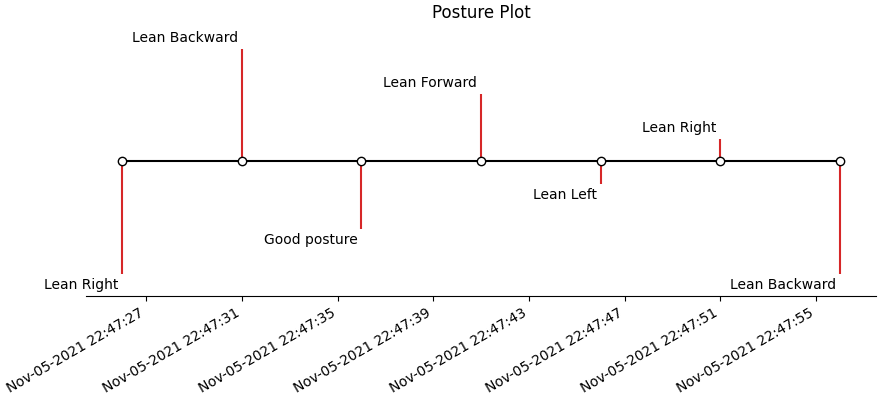
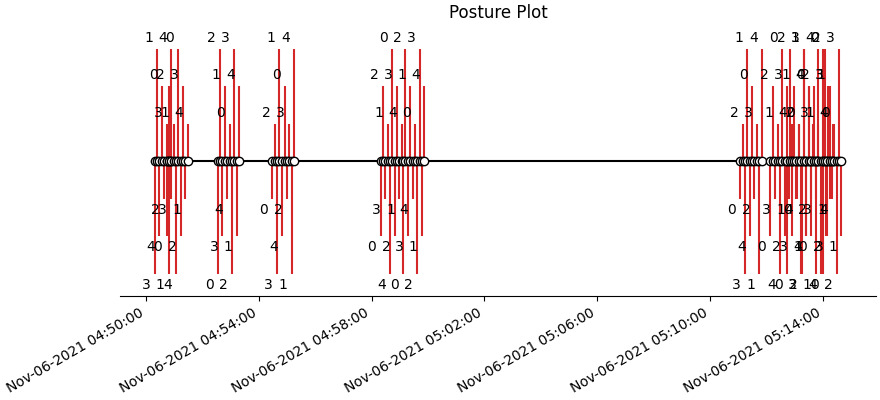
buzzer implemented

diff --git a/data_collection/src/app.py b/data_collection/src/app.py
@@ -42,7 +42,7 @@ from time import (
     sleep
 )
 
-TIME_BETWEEN_READINGS = 5 # seconds
+TIME_BETWEEN_READINGS = 0.5 # seconds
 PATH = "./samples"
 
 led_and_buzzer = None
@@ -288,7 +288,13 @@ async def run(address, postfix, flag, flags, mqtt_flag, warn_flag):
         # Once connected the client should not disconnect
         # If it does, exception is raised
         while True:
-            await asyncio.sleep(TIME_BETWEEN_READINGS) # Without await, the bleak listener cannot update the readings array, giving errors
+            for i in range(10):
+                if warn_flag.is_set():
+                    print("haha")
+                    await led_and_buzzer.notify(client, 0x05)
+                else:
+                    await led_and_buzzer.notify(client, 0x02)
+                await asyncio.sleep(TIME_BETWEEN_READINGS) # Without await, the bleak listener cannot update the readings array, giving errors
             try:
                 # Check if client is connected, if not raise Exception
                 if not client.is_connected:
@@ -343,12 +349,7 @@ async def run(address, postfix, flag, flags, mqtt_flag, warn_flag):
                 if not mqtt_flag.is_set():
                     mqtt_flag.set()
 
-                if warn_flag.is_set() and address == BLE_ADDR_SENSOR_BACK:
-                    print("haha")
-                    warn_flag.clear()
-                    await led_and_buzzer.notify(client, 0x05)
-                else:
-                    await led_and_buzzer.notify(client, 0x00)
+
 
             except Exception as e:
                 raise e

diff --git a/server_database/analytics/controller.py b/server_database/analytics/controller.py
@@ -10,7 +10,7 @@ from commons.commons import (
 def get_plot(posture, dates):
     posture
     # Choose some nice levels
-    levels = np.tile([-5, 5, -3, 3, -1, 1],
+    levels = np.tile([-3, 3, -2, 2, -1, 1],
                     int(np.ceil(len(posture)/6)))[:len(posture)]
 
     # Create figure and plot a stem plot with the date
@@ -29,7 +29,7 @@ def get_plot(posture, dates):
                     verticalalignment="bottom" if l > 0 else "top")
 
     # format xaxis with 4 month intervals
-    ax.xaxis.set_major_locator(mdates.SecondLocator(interval=4))
+    ax.xaxis.set_major_locator(mdates.MinuteLocator(interval=4))
     ax.xaxis.set_major_formatter(mdates.DateFormatter("%b-%d-%Y %H:%M:%S"))
     plt.setp(ax.get_xticklabels(), rotation=30, ha="right")
 
@@ -47,6 +47,6 @@ def get_advice(posture, dates):
     for classification in posture:
         count[classification] = 1 if classification not in count.keys() else count[classification] + 1
     
-    for classification in MQTT_CLASSIFICATIONS:
+    for classification in CLASSIFICATIONS:
         advice += "\n[%s] : You were in this posture %.3f percent of the time!\n" % (classification, (count[classification]/len(posture)))
     return advice

diff --git a/server_database/app.py b/server_database/app.py
@@ -78,7 +78,7 @@ def get_data():
 		
 		list_of_timestamps = [datetime.datetime.fromtimestamp(user.timecollect) for user in entries_to_analyse]
 		list_of_timestamps_str = [timestamp.strftime("%m/%d/%Y, %H:%M:%S") for timestamp in list_of_timestamps]
-		list_of_classifications = [CLASSIFICATION_ENUM_TO_NAME[user.classification] for user in entries_to_analyse]
+		list_of_classifications = [user.classification for user in entries_to_analyse]
 		print(list_of_timestamps_str)
 		print(list_of_classifications)
 

diff --git a/server_database/client.py b/server_database/client.py
@@ -38,8 +38,8 @@ def main():
 
     dict_to_enter = {
         "name" : "Sally",
-        "start_time" : 1636123646,
-        "end_time" : 1636123676
+        "start_time" : 1636145419,
+        "end_time" : 1636146879
     }
     requests.get(url_get_data, params=dict_to_enter)
     #Send the request and get back the response into result

diff --git a/data_collection/src/mqtt/controller.py b/data_collection/src/mqtt/controller.py
@@ -30,7 +30,7 @@ def on_message(client, userdata: asyncio.Event, msg):
         userdata.set()     
     else:
         userdata.clear()
-        
+
     print(
         resp_dict
     )
